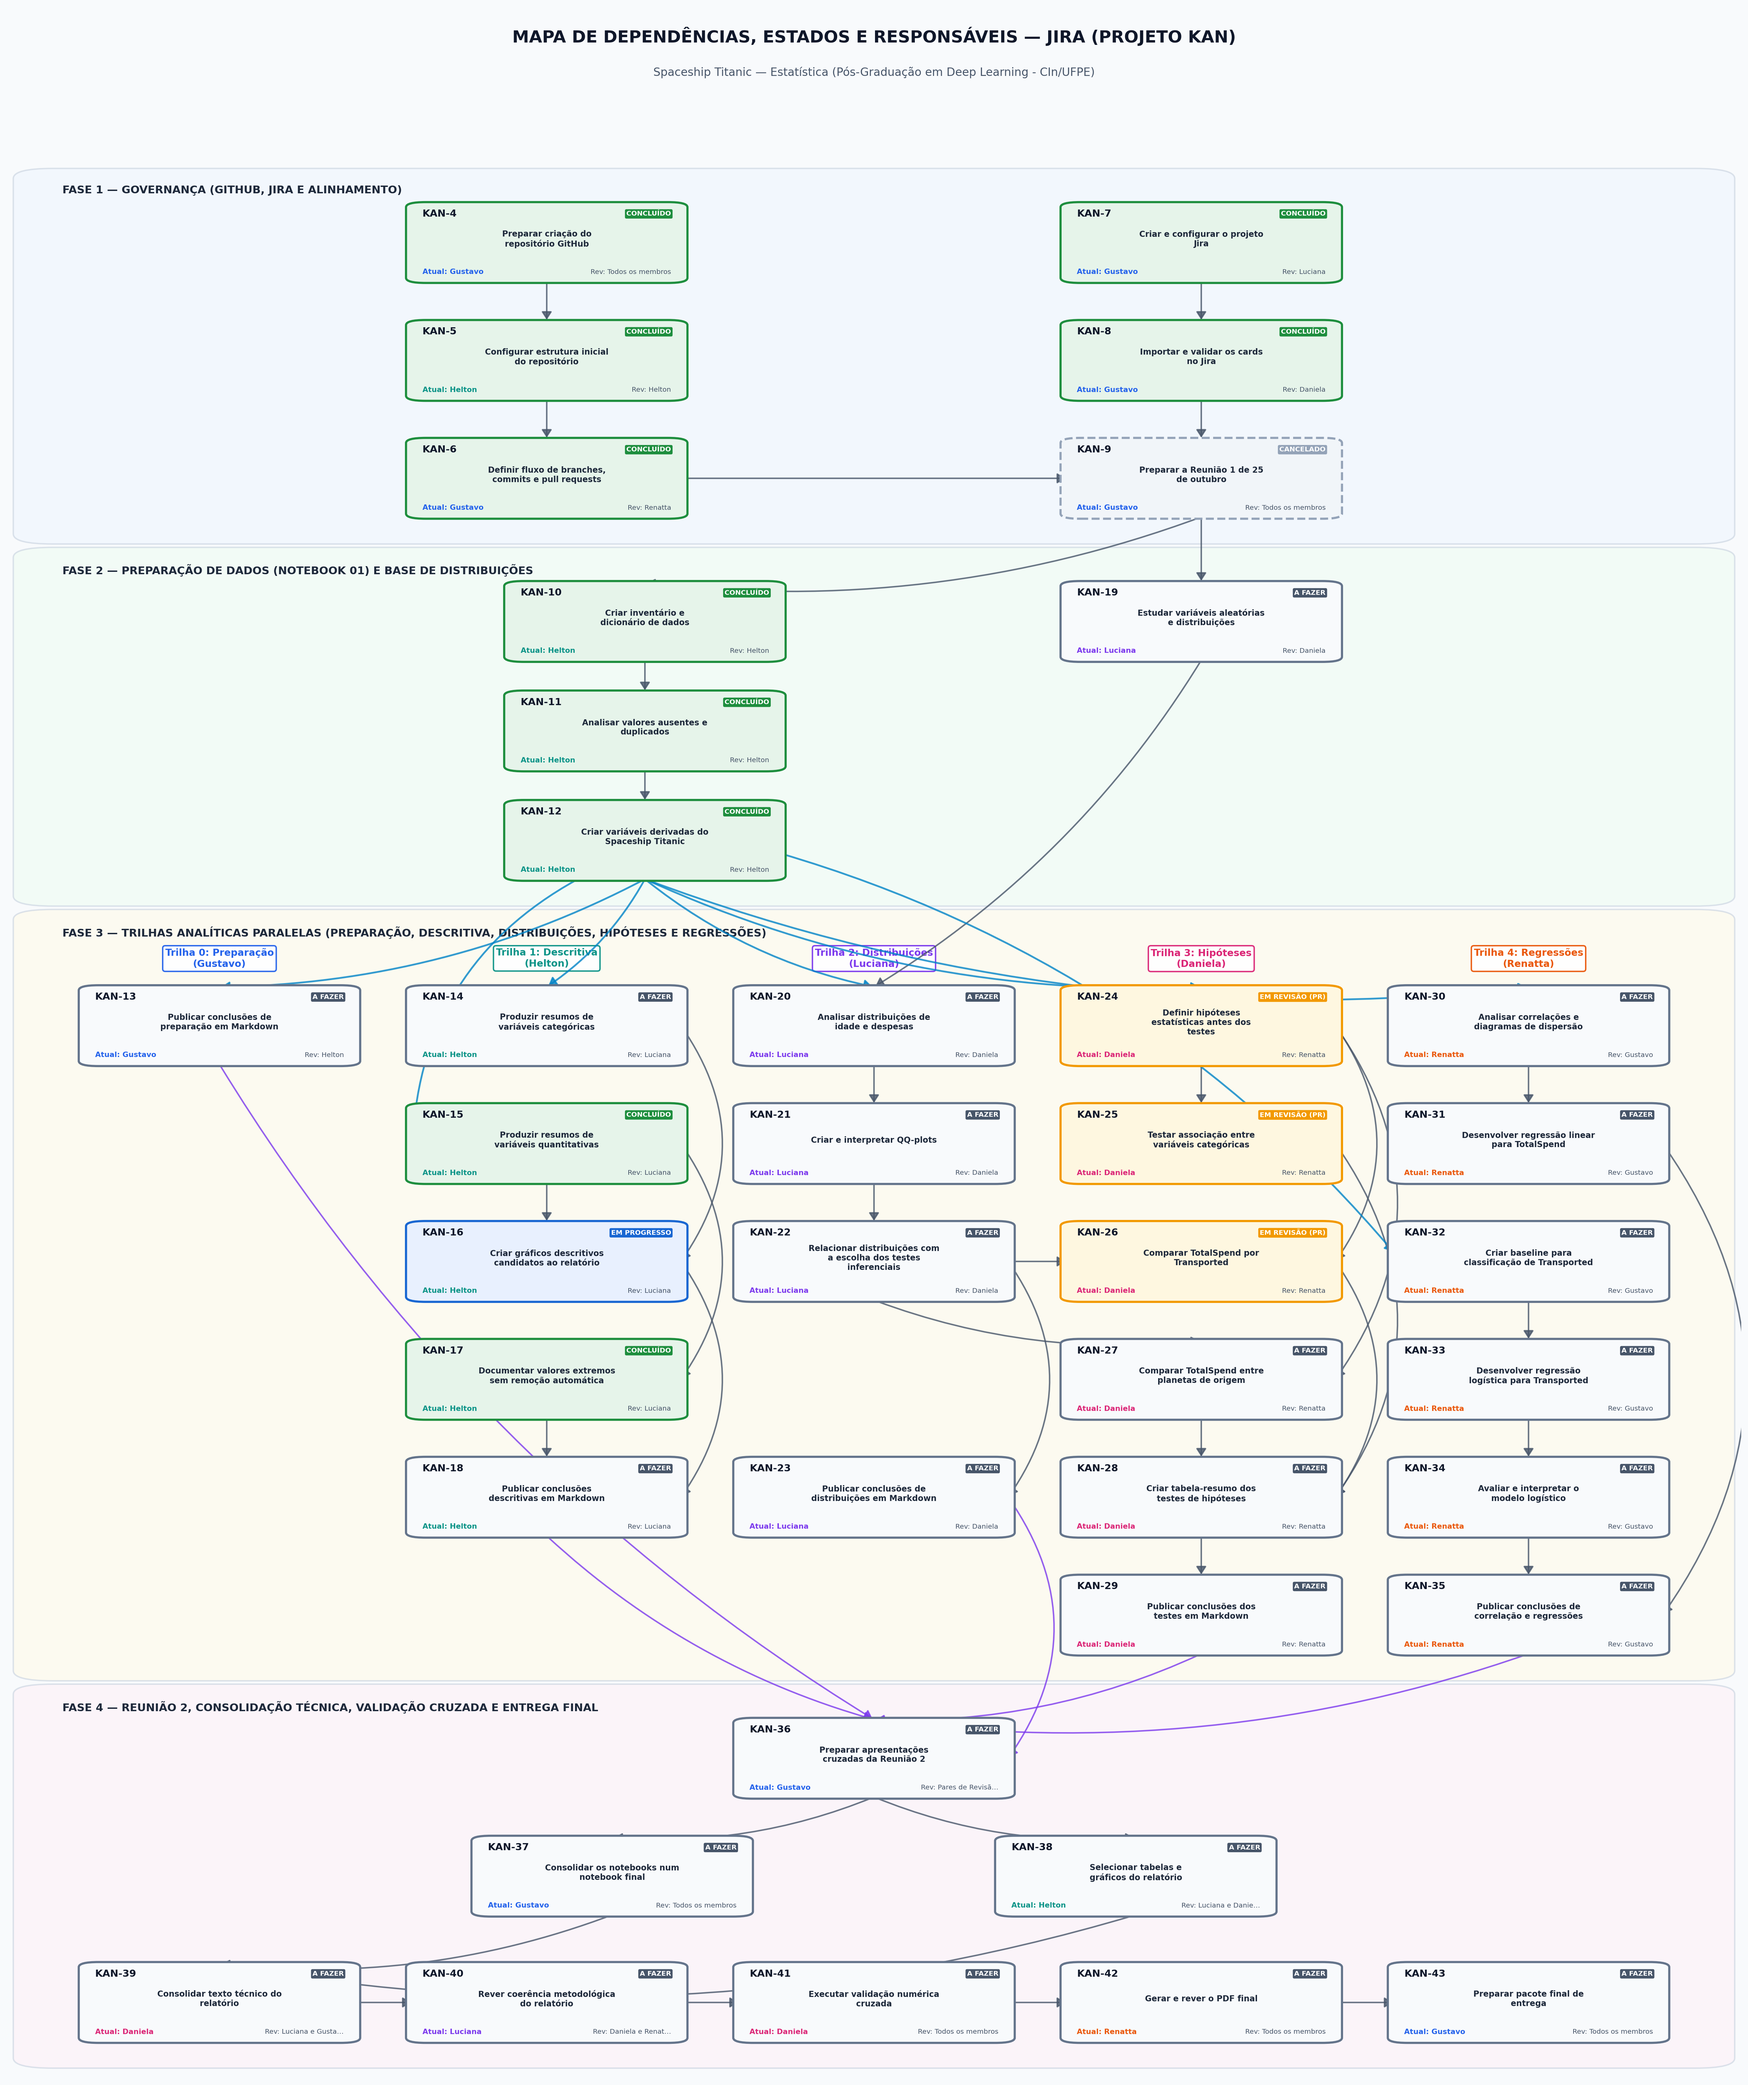
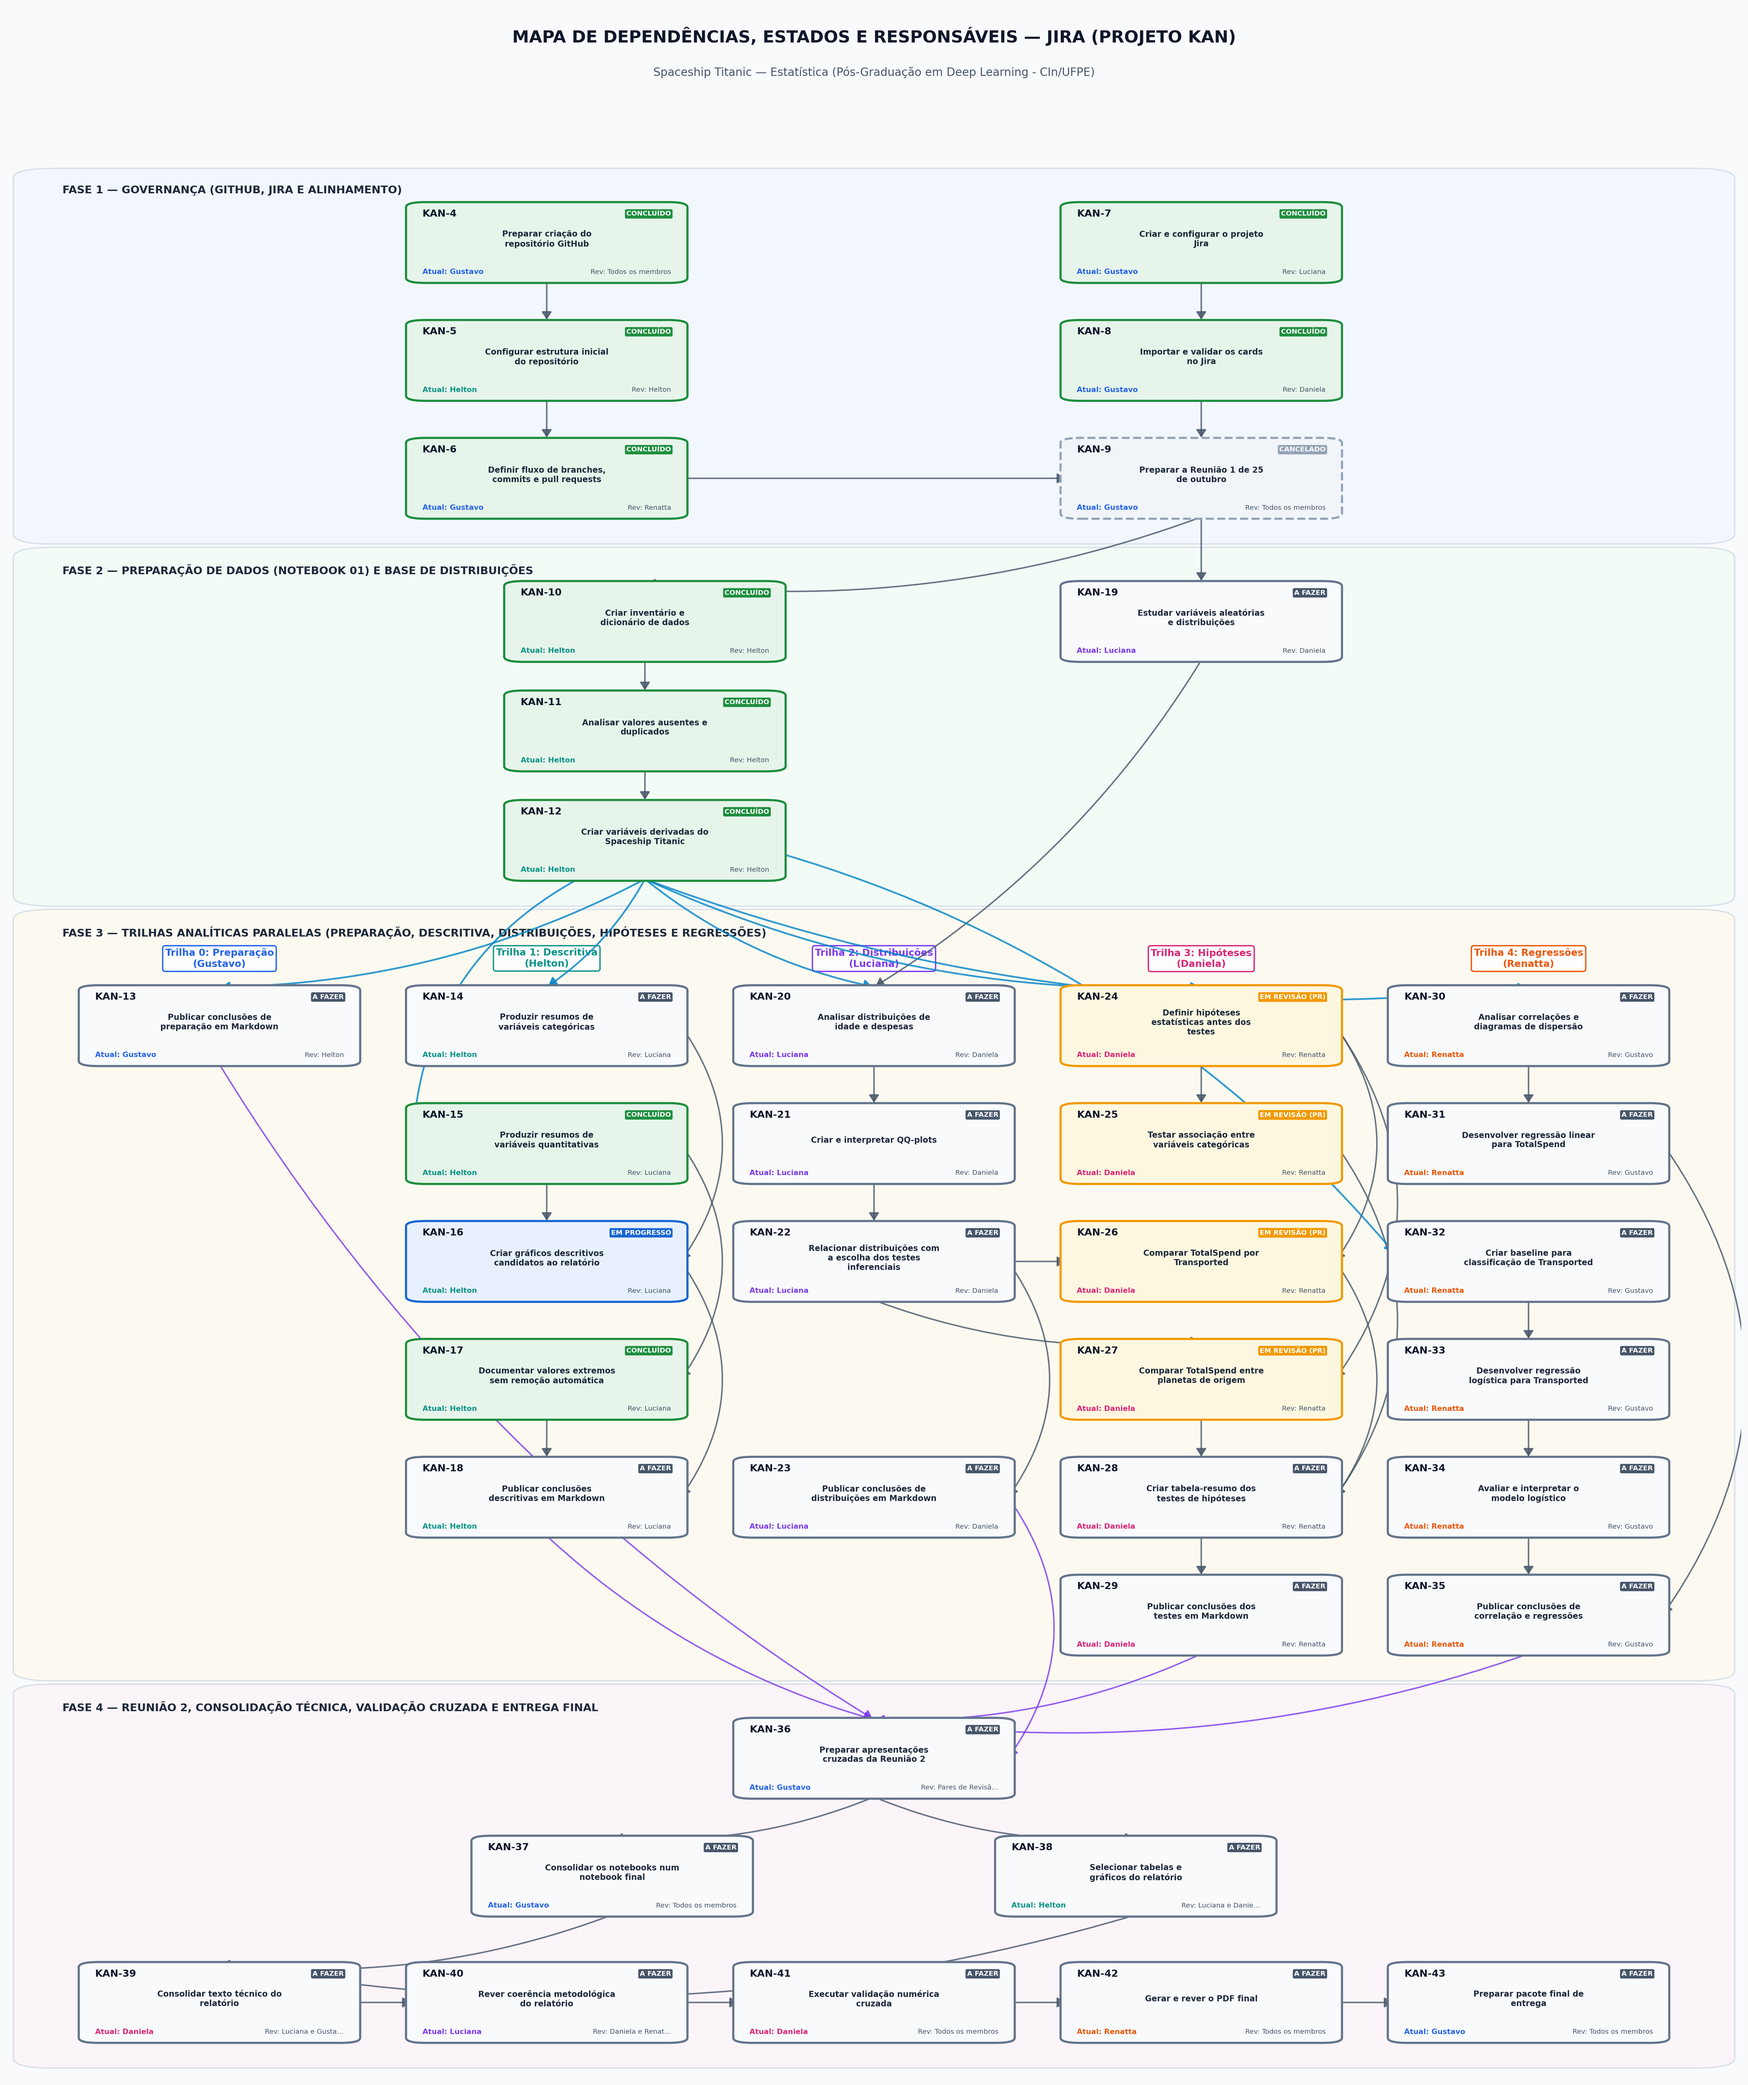
[KAN-27] Atualizar mapa visual de dependencias e estados do Jira para KAN-27 em In Review

Changed region(s): [[0.5905, 0.6246, 0.777, 0.6871]]

diff --git a/src/gerar_mapa_dependencias.py b/src/gerar_mapa_dependencias.py
@@ -156,7 +156,7 @@ TICKETS_JIRA = {'KAN-4': {'summary': 'Preparar criação do repositório GitHub'
             'rev': 'Renatta',
             'deps': ['KAN-22', 'KAN-24']},
  'KAN-27': {'summary': 'Comparar TotalSpend entre planetas de origem',
-            'status': 'A fazer',
+            'status': 'In Review',
             'assignee': 'Daniela',
             'resp': 'Daniela',
             'rev': 'Renatta',

diff --git a/docs/mapa_dependencias_jira.md b/docs/mapa_dependencias_jira.md
@@ -71,7 +71,7 @@ flowchart TD
             KAN-24["<b>KAN-24</b> [EM REVISÃO]<br/>Definir hipóteses estatísticas antes dos testes<br/><i>Atual: Daniela | Rev: Renatta</i>"]:::revisao
             KAN-25["<b>KAN-25</b> [EM REVISÃO]<br/>Testar associação entre variáveis categóricas<br/><i>Atual: Daniela | Rev: Renatta</i>"]:::revisao
             KAN-26["<b>KAN-26</b> [EM REVISÃO]<br/>Comparar TotalSpend por Transported<br/><i>Atual: Daniela | Rev: Renatta</i>"]:::revisao
-            KAN-27["<b>KAN-27</b> [A FAZER]<br/>Comparar TotalSpend entre planetas de origem<br/><i>Atual: Daniela | Rev: Renatta</i>"]:::afazer
+            KAN-27["<b>KAN-27</b> [EM REVISÃO]<br/>Comparar TotalSpend entre planetas de origem<br/><i>Atual: Daniela | Rev: Renatta</i>"]:::revisao
             KAN-28["<b>KAN-28</b> [A FAZER]<br/>Criar tabela-resumo dos testes de hipóteses<br/><i>Atual: Daniela | Rev: Renatta</i>"]:::afazer
             KAN-29["<b>KAN-29</b> [A FAZER]<br/>Publicar conclusões dos testes em Markdown<br/><i>Atual: Daniela | Rev: Renatta</i>"]:::afazer
         end
@@ -206,7 +206,7 @@ flowchart TD
 | [`KAN-24`](https://megamatic.atlassian.net/browse/KAN-24) | Definir hipóteses estatísticas antes dos testes | **In Review** | Daniela | Daniela | Renatta | `KAN-12` |
 | [`KAN-25`](https://megamatic.atlassian.net/browse/KAN-25) | Testar associação entre variáveis categóricas | **In Review** | Daniela | Daniela | Renatta | `KAN-24` |
 | [`KAN-26`](https://megamatic.atlassian.net/browse/KAN-26) | Comparar TotalSpend por Transported | **In Review** | Daniela | Daniela | Renatta | `KAN-22`, `KAN-24` |
-| [`KAN-27`](https://megamatic.atlassian.net/browse/KAN-27) | Comparar TotalSpend entre planetas de origem | **A fazer** | Daniela | Daniela | Renatta | `KAN-22`, `KAN-24` |
+| [`KAN-27`](https://megamatic.atlassian.net/browse/KAN-27) | Comparar TotalSpend entre planetas de origem | **In Review** | Daniela | Daniela | Renatta | `KAN-22`, `KAN-24` |
 | [`KAN-28`](https://megamatic.atlassian.net/browse/KAN-28) | Criar tabela-resumo dos testes de hipóteses | **A fazer** | Daniela | Daniela | Renatta | `KAN-25`, `KAN-26`, `KAN-27` |
 | [`KAN-29`](https://megamatic.atlassian.net/browse/KAN-29) | Publicar conclusões dos testes em Markdown | **A fazer** | Daniela | Daniela | Renatta | `KAN-28` |
 | [`KAN-30`](https://megamatic.atlassian.net/browse/KAN-30) | Analisar correlações e diagramas de dispersão | **A fazer** | Renatta | Renatta | Gustavo | `KAN-12` |
